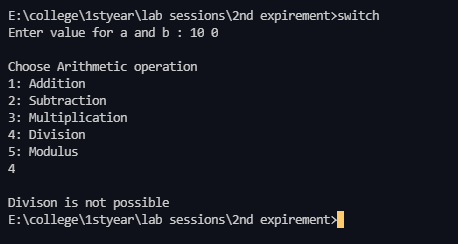
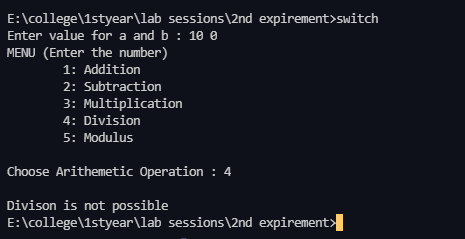
fix: improvements

diff --git a/1styear/lab sessions/2nd expirement/switch.c b/1styear/lab sessions/2nd expirement/switch.c
@@ -13,7 +13,8 @@ int main()
     printf("Enter value for a and b : ");
     scanf("%f %f", &a, &b);
 
-    printf("\nChoose Arithmetic operation\n1: Addition\n2: Subtraction\n3: Multiplication\n4: Division\n5: Modulus\n");
+    printf("MENU (Enter the number)\n\t1: Addition\n\t2: Subtraction\n\t3: Multiplication\n\t4: Division\n\t5: Modulus\n");
+    printf("\nChoose Arithemetic Operation : ");
     scanf("%d", &option);
 
     switch (option)
@@ -46,7 +47,7 @@ int main()
             printf("\nModulus is not possible");
             return 0;
         }
-        result = (int)(a) % (int)(b);
+        result = (int)a % (int)b;
         break;
 
     default:

diff --git a/1styear/lab sessions/2nd expirement/Readme.md b/1styear/lab sessions/2nd expirement/Readme.md
@@ -1,0 +1,96 @@
+# 2nd Expirement
+
+## Aim
+Develop a program to solve simple computational problems using arithmetic
+expressions and use of each operator leading to simulation of a commercial calculator.
+
+## Topic Learning Objective
+Students will be able to apply switch construct to develop a simple
+calculator to evaluate arithmetic expressions.
+
+## Description
+A calculator to solve simple computations should evaluate arithmetic expressions formed using
+the operators `+`, `-`, `*`, `/` and `%`. In this program, each operator works on two operands. All the
+operators except `%` can take both integer and floating point input. The `%` operator works only
+on integer input.
+
+## Algorithm
+
+<pre><code class="has-line-data" data-line-start="1" data-line-end="37">Step 1: [Begin]
+        Start
+Step 2: [Input two operand values]
+        Read op1, op2
+Step 3: [Select the operation to be performed (addition, subtraction, multiplication, division.
+remainder)]
+        Read choice of operator
+Step 4: [Perform computation based on choice of operator]
+        switch (choice)
+            case 1:
+                result &lt;= op1 + op2
+                goto step 5
+            case 2:
+                result &lt;= op1 - op2
+                goto step 5
+            case 3: 
+                result &lt;= op1 * op2
+                goto step 5
+            case 4: [ Check if the second operand is 0]
+                if(op2 == 0)
+                    print &quot;Division is not possible&quot;
+                else
+                    result &lt;= op1 / op2
+                    goto step 5
+            case 5: [ Check if the second operand is 0]
+                if(op2 == 0)
+                    print &quot;Modulus is not possible&quot;
+                else
+                    result &lt;= op1 % op2
+                     goto step 5
+            default: print &quot;Invalid Option&quot;
+Step 5: [Print the result of selected operation]
+        Output result
+Step 6: [Terminate]
+        Stop
+</code></pre>
+
+
+## Code
+
+[Click here](./switch.c) for the code.
+
+## Outputs
+
+### Addition
+
+![Addition](./outputs/addition.png)
+
+### Subtraction
+
+![Subtraction](./outputs/subtraction.png)
+
+### Multiplication
+
+![Mulitplication](./outputs/subtraction.png)
+
+### Division
+
+![Division](./outputs/division.png)
+
+### Modulus
+
+![Modulus](./outputs/modulus.png)
+
+## Invalid Inputs
+
+### Invalid Option
+
+![Invalid Option](./outputs/invalidinput.png)
+
+### Invalid Division (Division by 0)
+
+![Invalid Division](./outputs/invaliddivision.png)
+
+### Invalid Modulus (Modulus by 0)
+
+![Invalid Modulus](./outputs/invalidModulus.png)
+
